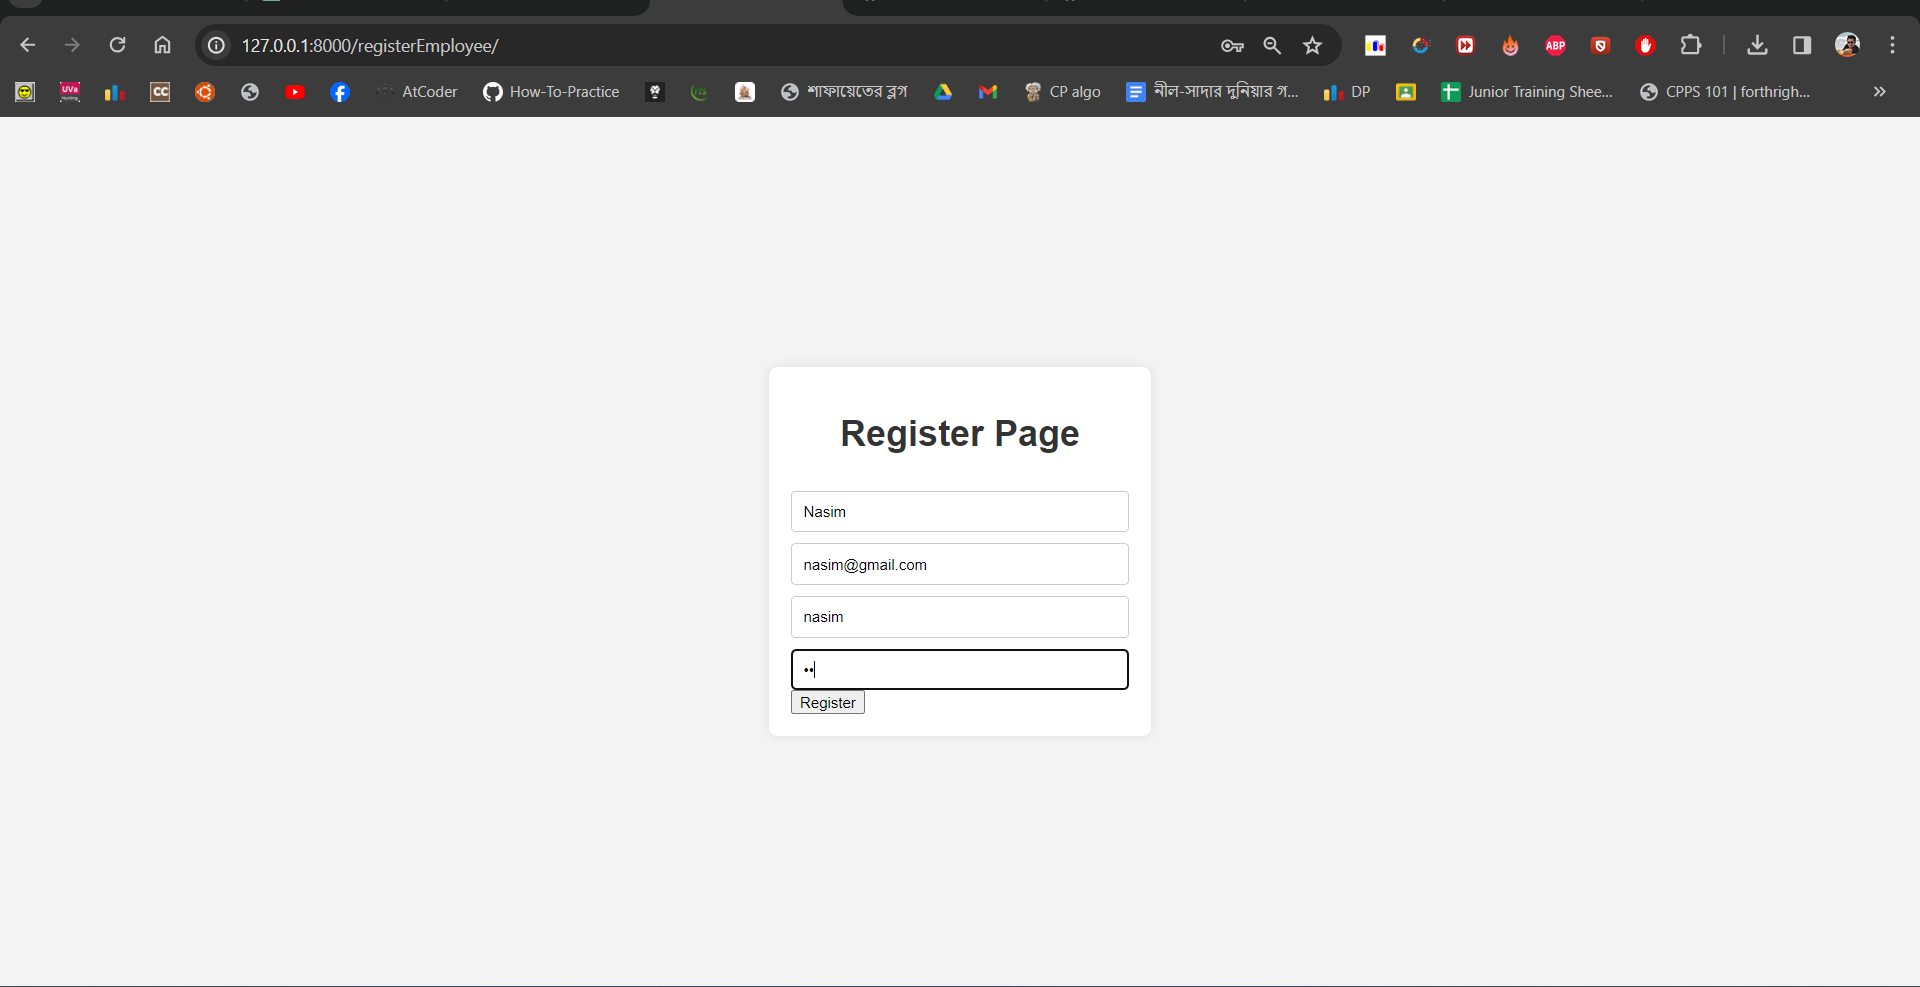
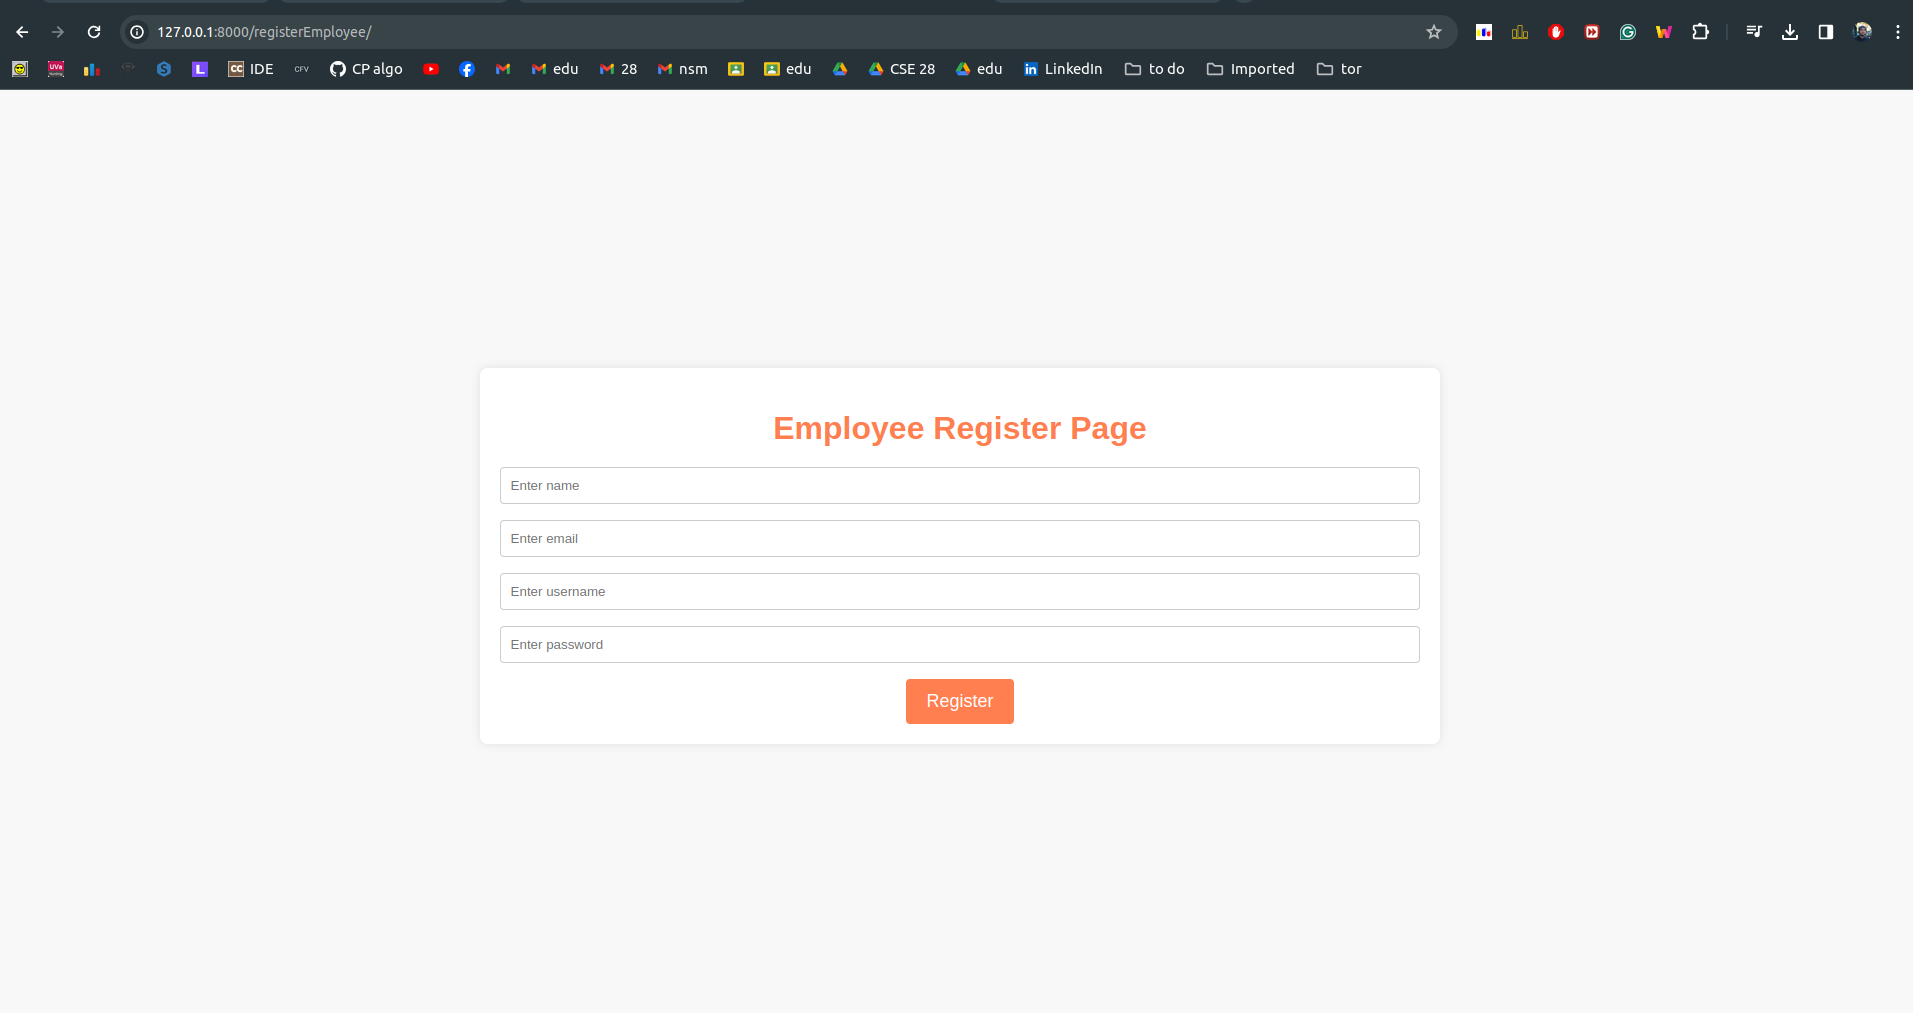
Register pages updated

diff --git a/dishdemocracy/templates/register_restaurant.html b/dishdemocracy/templates/register_restaurant.html
@@ -1,13 +1,14 @@
 <!DOCTYPE html>
 <html lang="en">
+
 <head>
     <meta charset="UTF-8">
     <meta name="viewport" content="width=device-width, initial-scale=1.0">
-    <title>Register Page</title>
+    <title>Restaurant Register Page</title>
     <style>
         body {
             font-family: 'Arial', sans-serif;
-            background-color: #f4f4f4;
+            background-color: #f8f8f8;
             margin: 0;
             padding: 0;
             display: flex;
@@ -21,47 +22,50 @@
             padding: 20px;
             border-radius: 8px;
             box-shadow: 0 0 10px rgba(0, 0, 0, 0.1);
-            width: 300px;
+            text-align: center;
         }
 
         h1 {
-            text-align: center;
-            color: #333;
-        }
-
-        p {
-            margin: 10px 0;
+            color: #ff7f50; /* Orange color */
+            margin-bottom: 20px;
         }
 
         input {
             width: 100%;
             padding: 10px;
-            margin-top: 10px;
+            margin-bottom: 16px;
             border: 1px solid #ccc;
             border-radius: 4px;
             box-sizing: border-box;
         }
 
-        input[type="submit"] {
-            background-color: #4caf50;
+        button {
+            background-color: #ff7f50; /* Orange color */
             color: #fff;
+            border: none;
+            border-radius: 4px;
+            padding: 12px 20px;
+            font-size: 18px;
             cursor: pointer;
+            transition: background-color 0.3s ease-in-out;
         }
 
-        input[type="submit"]:hover {
-            background-color: #45a000;
+        button:hover {
+            background-color: #e64a19; /* Darker shade of orange */
         }
     </style>
 </head>
+
 <body>
     <form action="" method="POST">
-        <h1>Register Page</h1>
+        <h1>Restaurant Register Page</h1>
         {% csrf_token %}
         <input type="text" name="restName" placeholder="Enter Restaurant name">
-        <input type="email" name="email" placeholder="Enter email" >
+        <input type="email" name="email" placeholder="Enter email">
         <input type="text" name="username" placeholder="Enter username">
         <input type="password" name="password" placeholder="Enter password">
         <button type="submit" name="owner">Register</button>
     </form>
 </body>
+
 </html>

diff --git a/dishdemocracy/templates/register_employee.html b/dishdemocracy/templates/register_employee.html
@@ -7,7 +7,7 @@
     <style>
         body {
             font-family: 'Arial', sans-serif;
-            background-color: #f4f4f4;
+            background-color: #f8f8f8;
             margin: 0;
             padding: 0;
             display: flex;
@@ -21,41 +21,42 @@
             padding: 20px;
             border-radius: 8px;
             box-shadow: 0 0 10px rgba(0, 0, 0, 0.1);
-            width: 300px;
+            text-align: center;
         }
 
         h1 {
-            text-align: center;
-            color: #333;
-        }
-
-        p {
-            margin: 10px 0;
+            color: #ff7f50; /* Orange color */
+            margin-bottom: 20px;
         }
 
         input {
             width: 100%;
             padding: 10px;
-            margin-top: 10px;
+            margin-bottom: 16px;
             border: 1px solid #ccc;
             border-radius: 4px;
             box-sizing: border-box;
         }
 
-        input[type="submit"] {
-            background-color: #4caf50;
+        button {
+            background-color: #ff7f50; /* Orange color */
             color: #fff;
+            border: none;
+            border-radius: 4px;
+            padding: 12px 20px;
+            font-size: 18px;
             cursor: pointer;
+            transition: background-color 0.3s ease-in-out;
         }
 
-        input[type="submit"]:hover {
-            background-color: #45a000;
+        button:hover {
+            background-color: #e64a19; /* Darker shade of orange */
         }
     </style>
 </head>
 <body>
     <form action="" method="POST">
-        <h1>Register Page</h1>
+        <h1>Employee Register Page</h1>
         {% csrf_token %}
         <input type="text" name="name" placeholder="Enter name">
         <input type="email" name="email" placeholder="Enter email" >
